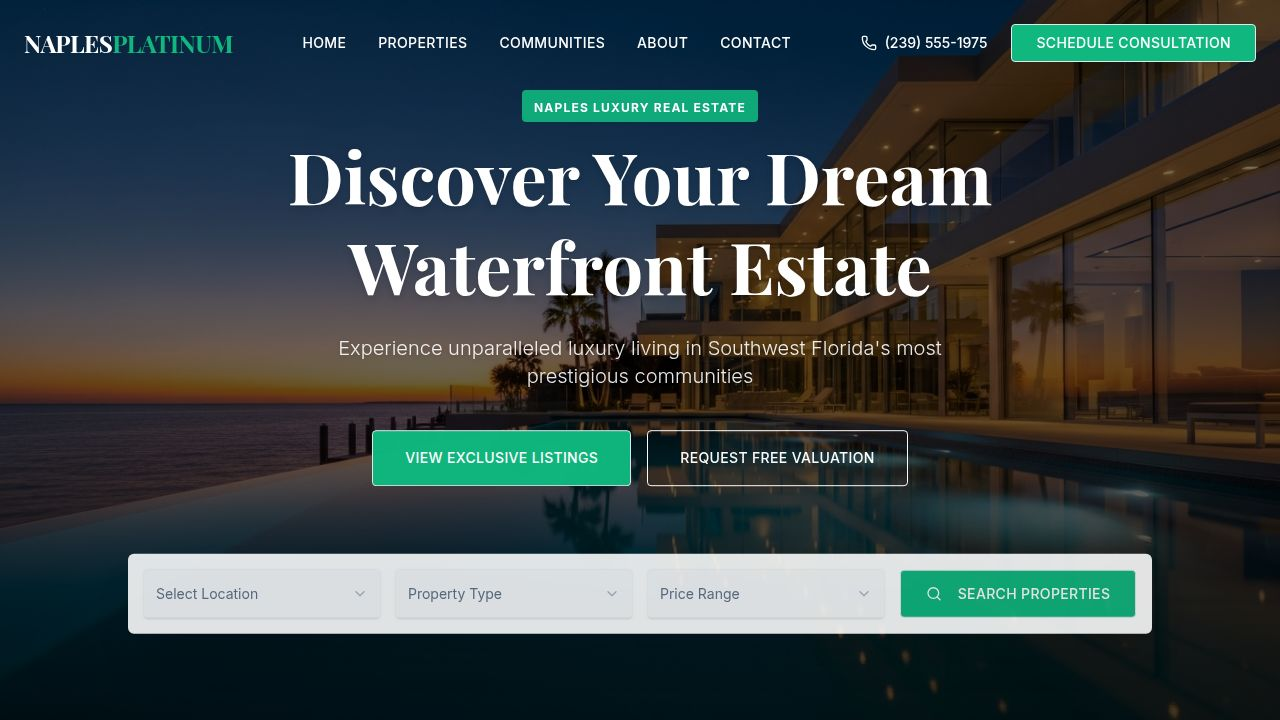
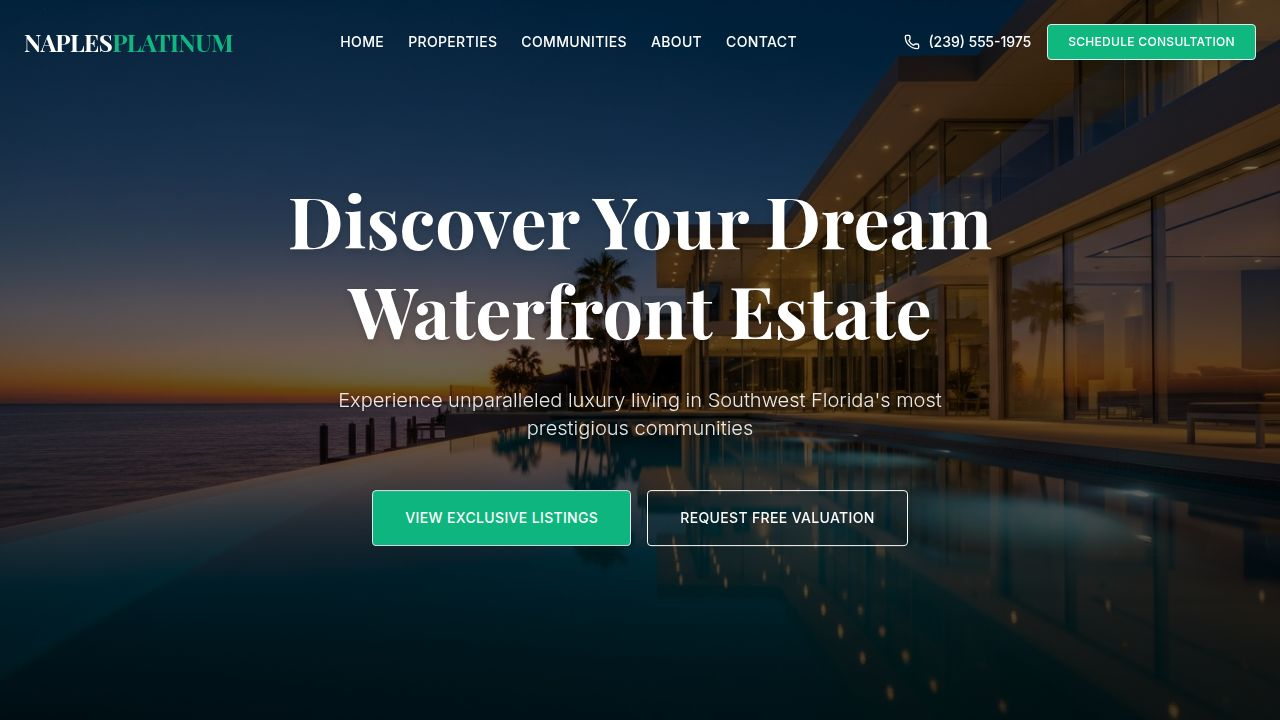
Reduce spacing in header and remove introductory badge from hero
Update Navbar component to decrease spacing between navigation links and buttons. Remove the "Naples Luxury Real Estate" badge from the Hero component to simplify its appearance.

Replit-Commit-Author: Agent
Replit-Commit-Session-Id: aac56243-0257-49a6-94d1-2442e268a794
Replit-Commit-Checkpoint-Type: full_checkpoint
Replit-Commit-Event-Id: 84e6fac0-fdca-4990-8136-6329e46c6995
Replit-Commit-Screenshot-Url: https://storage.googleapis.com/screenshot-production-us-central1/8f1b5e78-9315-4d5f-bd63-6d4cc587da49/aac56243-0257-49a6-94d1-2442e268a794/PkK88rc
Replit-Helium-Checkpoint-Created: true

diff --git a/client/src/components/layout/Navbar.tsx b/client/src/components/layout/Navbar.tsx
@@ -40,7 +40,7 @@ export function Navbar() {
         </Link>
 
         {/* Desktop Nav */}
-        <nav className="hidden md:flex items-center space-x-8">
+        <nav className="hidden md:flex items-center space-x-6">
           {navLinks.map((link) => (
             <a
               key={link.name}
@@ -52,12 +52,12 @@ export function Navbar() {
           ))}
         </nav>
 
-        <div className="hidden md:flex items-center space-x-6">
+        <div className="hidden md:flex items-center space-x-4">
           <a href="tel:+12395551975" className="flex items-center space-x-2 text-sm font-medium hover:text-accent transition-colors">
             <Phone className="h-4 w-4" />
             <span>(239) 555-1975</span>
           </a>
-          <Button className="bg-accent hover:bg-accent/90 text-white font-medium uppercase tracking-wide rounded-sm px-6">
+          <Button className="bg-accent hover:bg-accent/90 text-white font-medium uppercase tracking-wide rounded-sm px-5 h-9 text-xs">
             Schedule Consultation
           </Button>
         </div>

diff --git a/client/src/components/home/Hero.tsx b/client/src/components/home/Hero.tsx
@@ -17,11 +17,7 @@ export function Hero() {
 
       {/* Content */}
       <div className="container relative z-10 mx-auto px-4 md:px-6 text-center">
-        <div className="max-w-4xl mx-auto space-y-6">
-          <div className="inline-block bg-accent/90 px-3 py-1 rounded-sm mb-2 backdrop-blur-sm animate-in fade-in slide-in-from-bottom-4 duration-700">
-            <span className="text-white text-xs font-bold uppercase tracking-widest">Naples Luxury Real Estate</span>
-          </div>
-          
+        <div className="max-w-4xl mx-auto space-y-8">
           <h1 className="text-4xl md:text-5xl lg:text-7xl font-serif font-bold text-white leading-tight drop-shadow-md animate-in fade-in slide-in-from-bottom-6 duration-700 delay-100">
             Discover Your Dream <br /> Waterfront Estate
           </h1>
